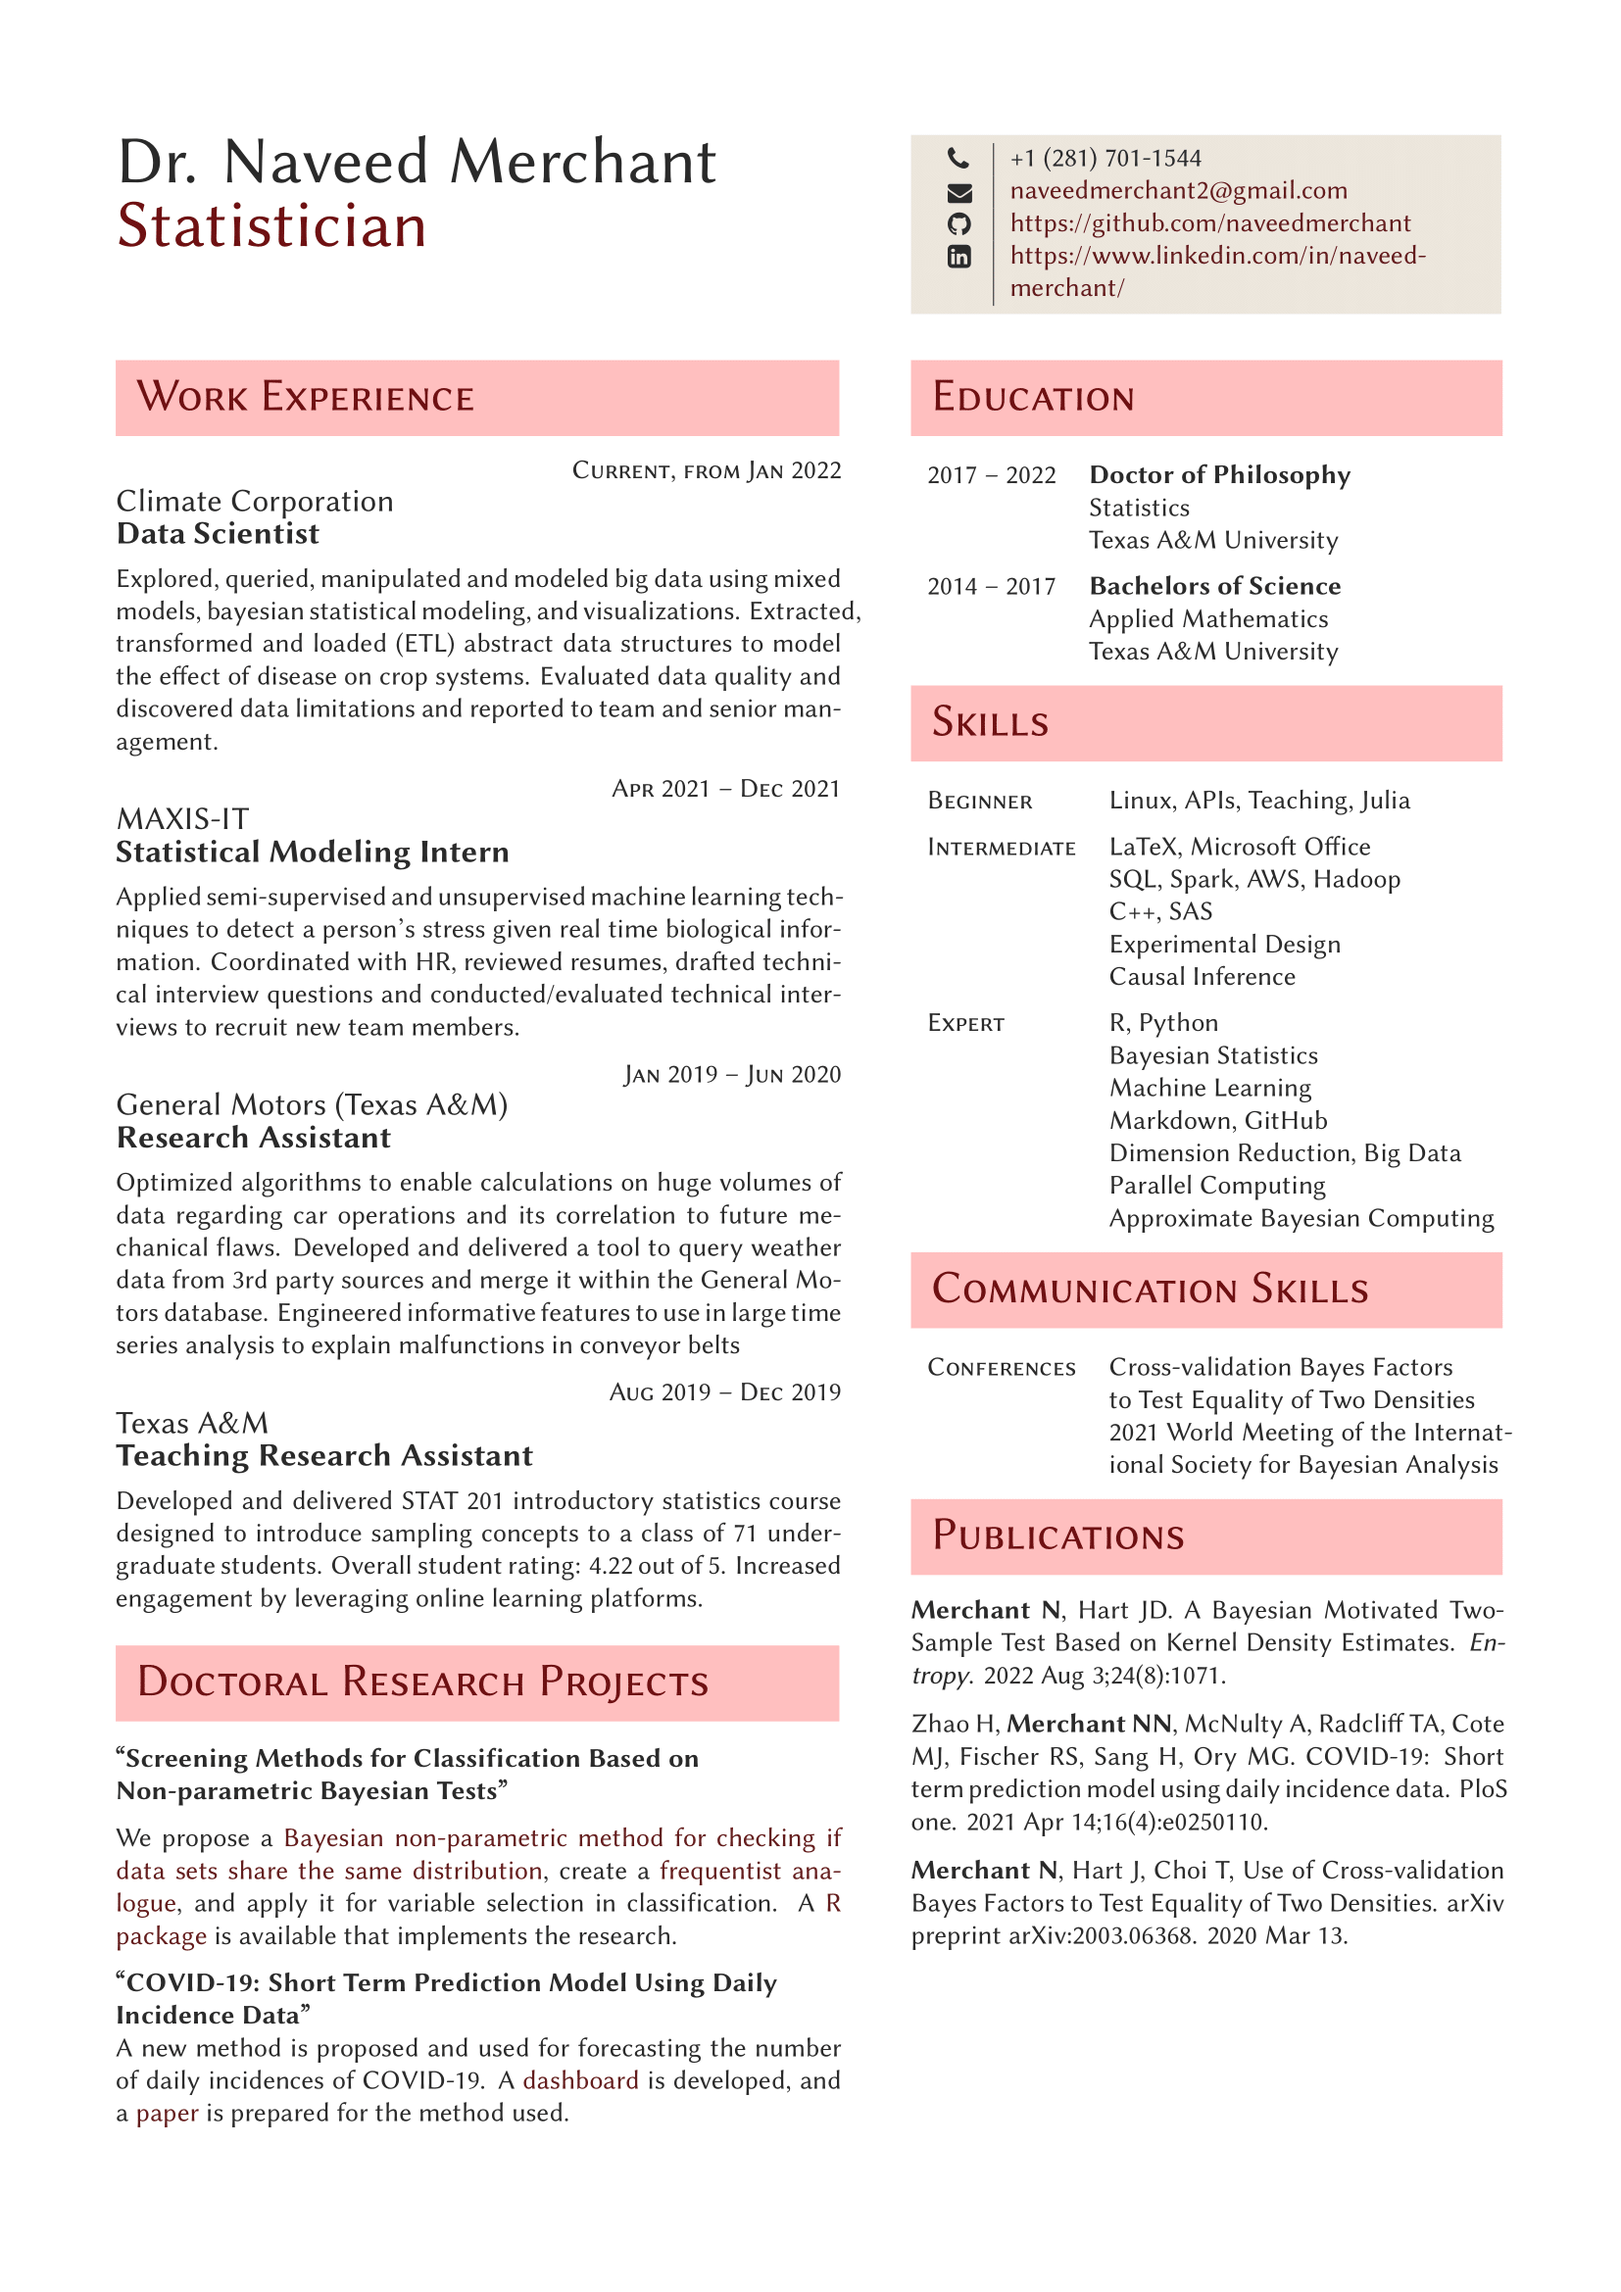
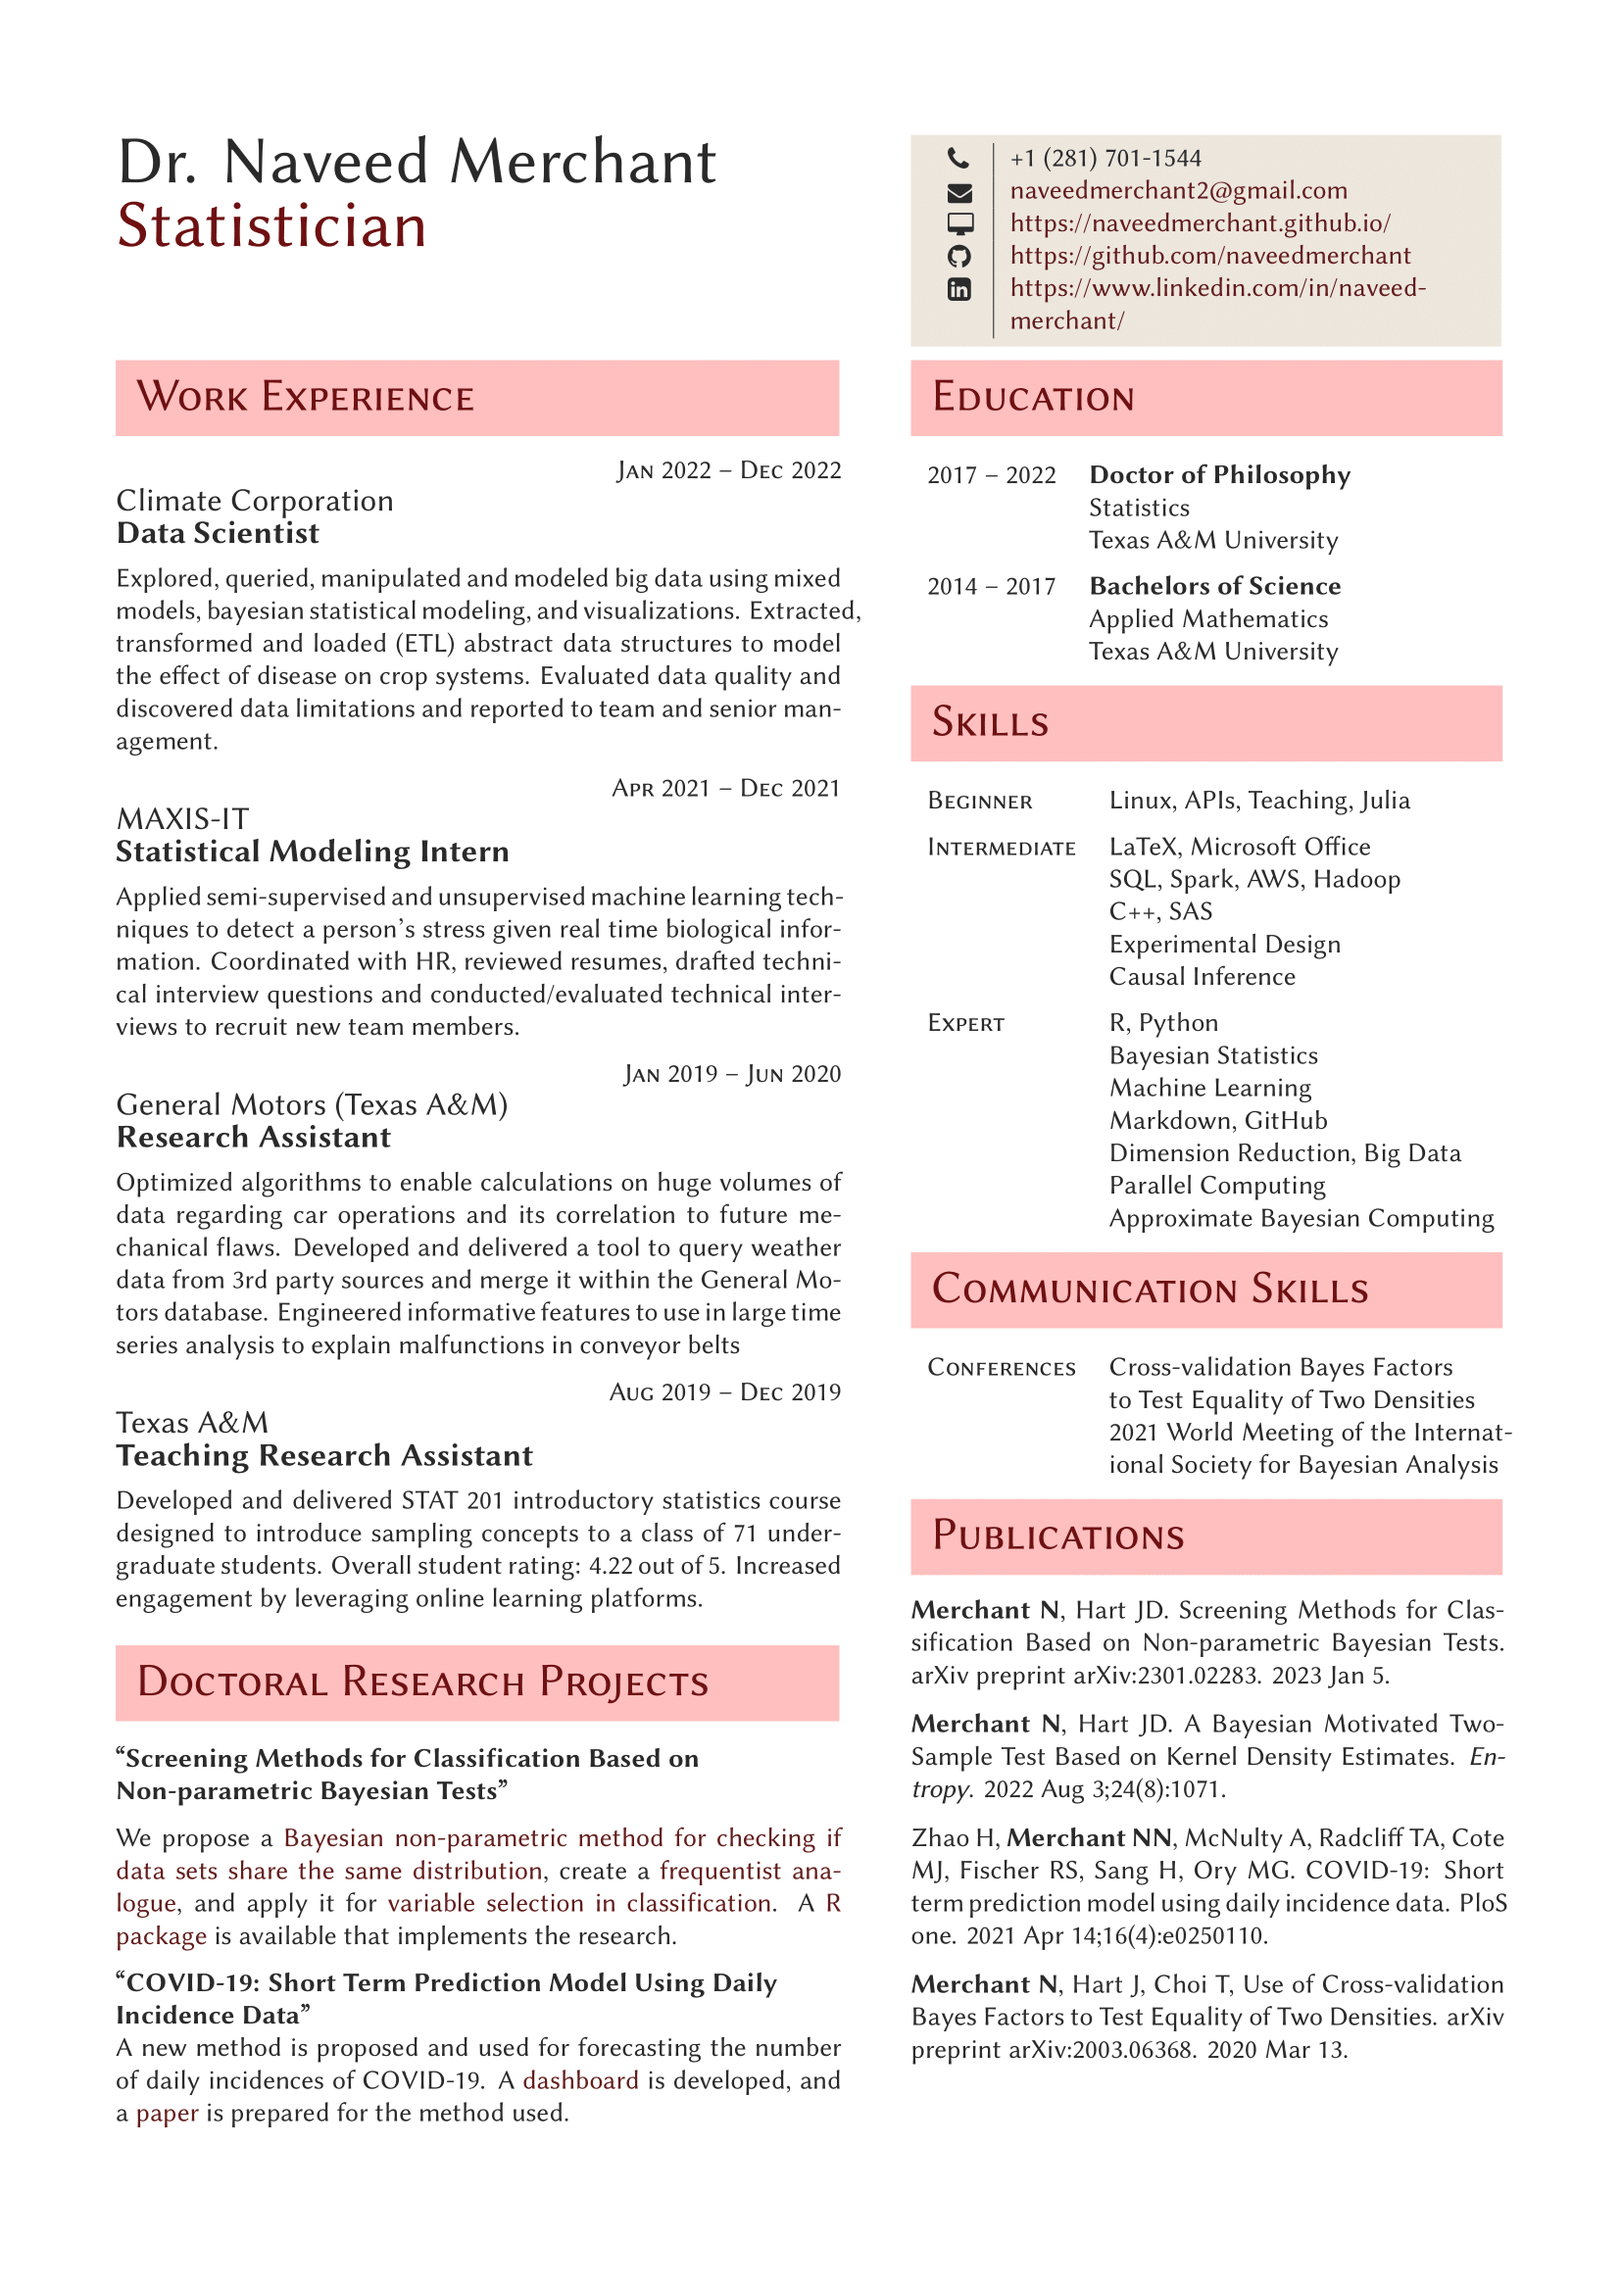
Resume updates and typo fix

diff --git a/Publications.md b/Publications.md
@@ -4,7 +4,7 @@ title: Publications
 ---
 
 ## Papers
-- [ALB Variable Screening](https://arxiv.org/pdf/2301.02283.pdf): Naveed Merchant and Hart Jeffery. "Use of Cross-validation Bayes Factors to Test Equality of Two Densities." arXiv preprint arXiv:2301.02283 (2023).
+- [ALB Variable Screening](https://arxiv.org/pdf/2301.02283.pdf): Merchant N, Hart JD. Screening Methods for Classification Based on Non-parametric Bayesian Tests. arXiv preprint arXiv:2301.02283. 2023 Jan 5.
 
 - [CVBF](https://arxiv.org/pdf/2003.06368.pdf): Hart, Jeffery, Taeryon Choi, and Naveed Merchant. "Use of Cross-validation Bayes Factors to Test Equality of Two Densities." arXiv preprint arXiv:2003.06368 (2020).
 
